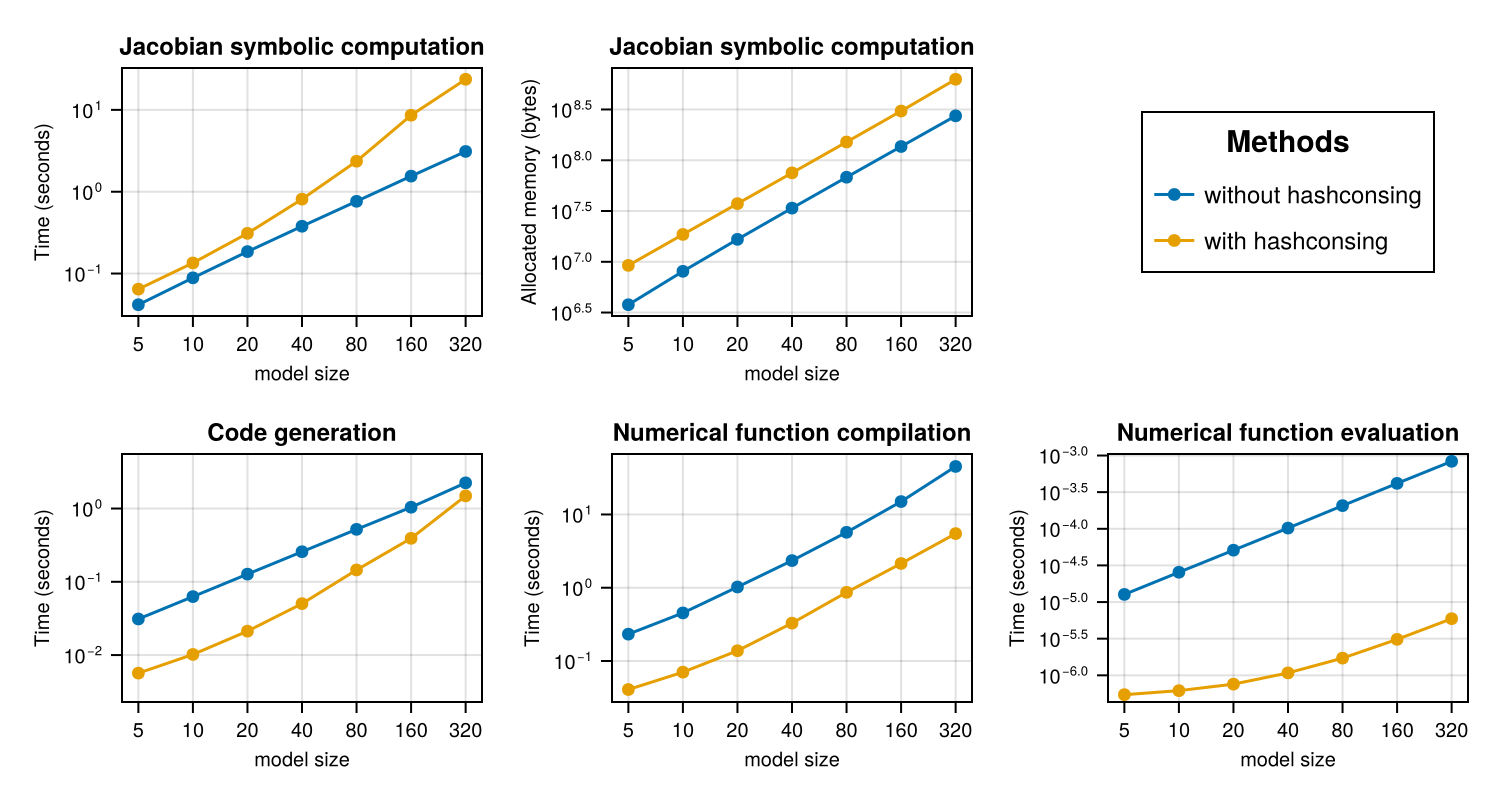
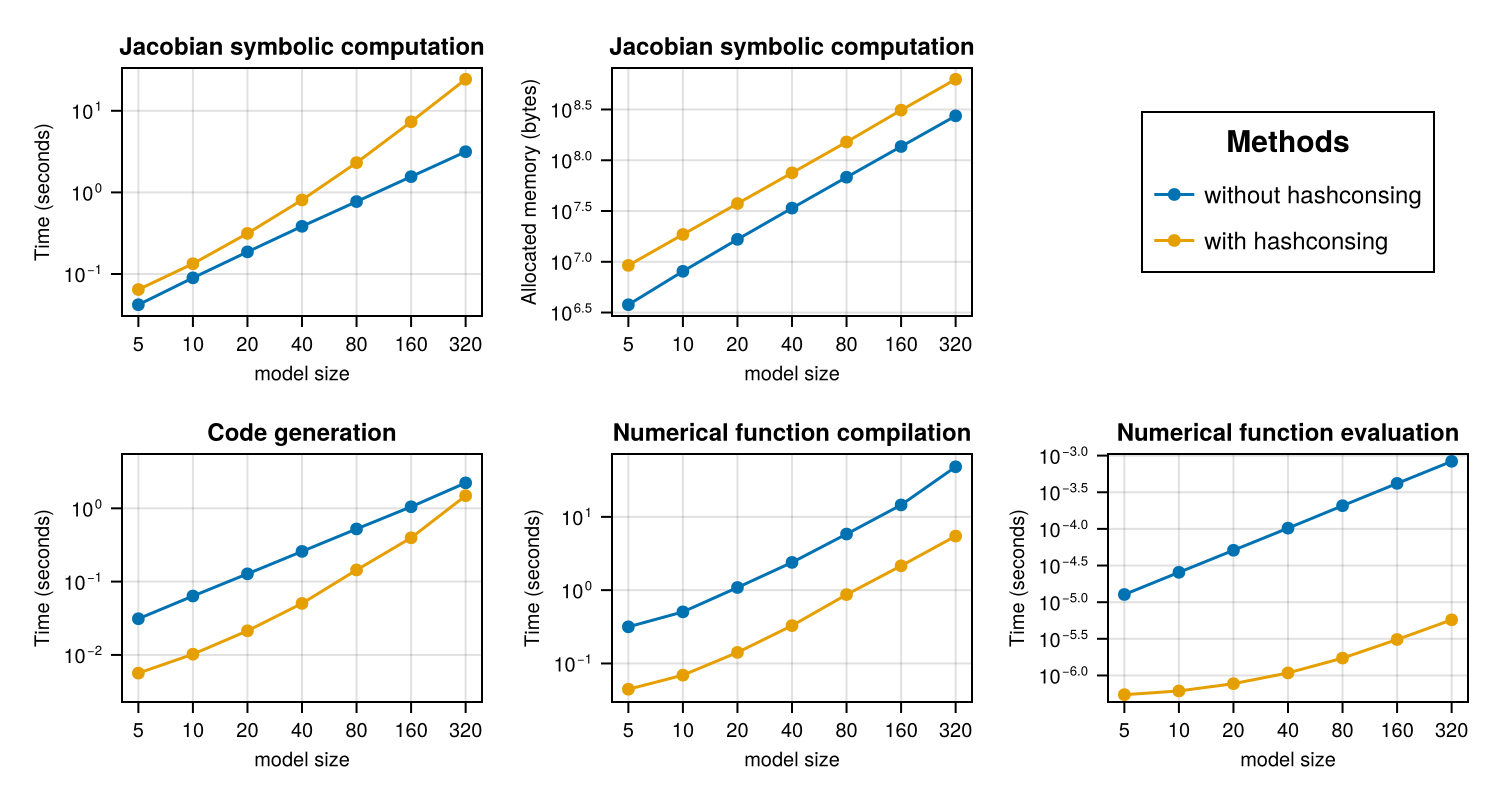
Automatic build\nPublished by build of: https://github.com/SciML/SciMLBenchmarks.jl/commit/da181919b3344d7d5dd932ec332de5bcde10f1ee

diff --git a/markdown/Symbolics/BCR.md b/markdown/Symbolics/BCR.md
@@ -50,7 +50,7 @@ Parsing groups...done
 ────────────────────────────────────────────────────────────────────
                            Time                    Allocations      
                   ───────────────────────   ────────────────────────
-Tot / % measured:      7.26s /   0.0%            888MiB /   0.0%    
+Tot / % measured:      8.07s /   0.0%            892MiB /   0.0%    
 
 Section   ncalls     time    %tot     avg     alloc    %tot      avg
 ────────────────────────────────────────────────────────────────────
@@ -151,31 +151,31 @@ show(to)
                   Allocations      
                                                             ───────────────
 ────────   ────────────────────────
-                     Tot / % measured:                            491s /  9
-3.7%           36.1GiB /  91.4%    
+                     Tot / % measured:                            496s /  9
+3.9%           36.1GiB /  91.4%    
 
 Section                                             ncalls     time    %tot
      avg     alloc    %tot      avg
 ───────────────────────────────────────────────────────────────────────────
 ───────────────────────────────────
-Compile jacobian - no CSE                                1     193s   42.0%
-    193s   3.05GiB    9.2%  3.05GiB
-Calculate jacobian - without hashconsing                 1    77.6s   16.9%
-   77.6s   10.5GiB   32.0%  10.5GiB
-Compile jacobian - CSE                                   1    76.3s   16.6%
-   76.3s   0.95GiB    2.9%  0.95GiB
-Calculate jacobian - hashconsing, without caching        1    76.2s   16.6%
-   76.2s   10.5GiB   31.8%  10.5GiB
-Calculate jacobian - hashconsing and caching             1    30.7s    6.7%
-   30.7s   6.72GiB   20.4%  6.72GiB
-Build jacobian - no CSE                                  1    4.74s    1.0%
-   4.74s   1.10GiB    3.3%  1.10GiB
-Build jacobian - CSE                                     1    1.37s    0.3%
-   1.37s    160MiB    0.5%   160MiB
-Compute jacobian - no CSE                                1   95.5μs    0.0%
-  95.5μs      192B    0.0%     192B
-Compute jacobian - CSE                                   1   49.1μs    0.0%
-  49.1μs      192B    0.0%     192B
+Compile jacobian - no CSE                                1     194s   41.6%
+    194s   3.05GiB    9.2%  3.05GiB
+Compile jacobian - CSE                                   1    82.3s   17.7%
+   82.3s   0.95GiB    2.9%  0.95GiB
+Calculate jacobian - without hashconsing                 1    77.9s   16.7%
+   77.9s   10.5GiB   32.0%  10.5GiB
+Calculate jacobian - hashconsing, without caching        1    75.3s   16.2%
+   75.3s   10.5GiB   31.8%  10.5GiB
+Calculate jacobian - hashconsing and caching             1    30.2s    6.5%
+   30.2s   6.72GiB   20.4%  6.72GiB
+Build jacobian - no CSE                                  1    4.99s    1.1%
+   4.99s   1.10GiB    3.3%  1.10GiB
+Build jacobian - CSE                                     1    1.42s    0.3%
+   1.42s    160MiB    0.5%   160MiB
+Compute jacobian - no CSE                                1   82.6μs    0.0%
+  82.6μs      192B    0.0%     192B
+Compute jacobian - CSE                                   1   50.0μs    0.0%
+  50.0μs      192B    0.0%     192B
 ───────────────────────────────────────────────────────────────────────────
 ───────────────────────────────────
 ```

diff --git a/markdown/Symbolics/ThermalFluid.md b/markdown/Symbolics/ThermalFluid.md
@@ -403,19 +403,19 @@ end
 ```
 
 ```
-61.496258 seconds (228.23 M allocations: 7.226 GiB, 1.36% gc time, 0.36% c
+61.509129 seconds (227.75 M allocations: 7.216 GiB, 1.30% gc time, 0.41% c
 ompilation time)
- 63.275430 seconds (230.22 M allocations: 7.251 GiB, 1.50% gc time, 0.12% c
+ 63.464838 seconds (229.33 M allocations: 7.233 GiB, 1.56% gc time, 0.55% c
 ompilation time)
- 70.272975 seconds (231.07 M allocations: 7.321 GiB, 1.51% gc time, 0.23% c
+ 70.290672 seconds (229.63 M allocations: 7.274 GiB, 1.48% gc time, 0.13% c
 ompilation time)
-105.685836 seconds (258.83 M allocations: 8.206 GiB, 1.20% gc time, 0.01% c
+105.894545 seconds (258.98 M allocations: 8.222 GiB, 1.16% gc time, 0.06% c
 ompilation time)
-328.964201 seconds (403.65 M allocations: 12.994 GiB, 0.72% gc time, 0.01% 
+324.180596 seconds (403.84 M allocations: 13.002 GiB, 0.72% gc time, 0.01% 
 compilation time)
-1915.325586 seconds (1.01 G allocations: 32.996 GiB, 0.39% gc time, 0.00% c
+1854.799414 seconds (1.02 G allocations: 33.223 GiB, 0.40% gc time, 0.00% c
 ompilation time)
-13505.076710 seconds (3.37 G allocations: 110.579 GiB, 0.26% gc time, 0.00%
+13132.362599 seconds (3.35 G allocations: 109.281 GiB, 0.26% gc time, 0.00%
  compilation time)
 ```
 
@@ -533,7 +533,7 @@ Package Information:
 ```
 Status `/cache/build/exclusive-amdci3-0/julialang/scimlbenchmarks-dot-jl/benchmarks/Symbolics/Project.toml`
   [6e4b80f9] BenchmarkTools v1.6.0
-⌅ [13f3f980] CairoMakie v0.13.10
+⌃ [13f3f980] CairoMakie v0.13.10
   [479239e8] Catalyst v15.0.8
   [0ca39b1e] Chairmarks v1.3.1
 ⌅ [864edb3b] DataStructures v0.18.22
@@ -585,7 +585,7 @@ Status `/cache/build/exclusive-amdci3-0/julialang/scimlbenchmarks-dot-jl/benchma
   [2a0fbf3d] CPUSummary v0.2.7
   [96374032] CRlibm v1.0.2
   [159f3aea] Cairo v1.1.1
-⌅ [13f3f980] CairoMakie v0.13.10
+⌃ [13f3f980] CairoMakie v0.13.10
   [479239e8] Catalyst v15.0.8
   [d360d2e6] ChainRulesCore v1.26.0
   [0ca39b1e] Chairmarks v1.3.1
